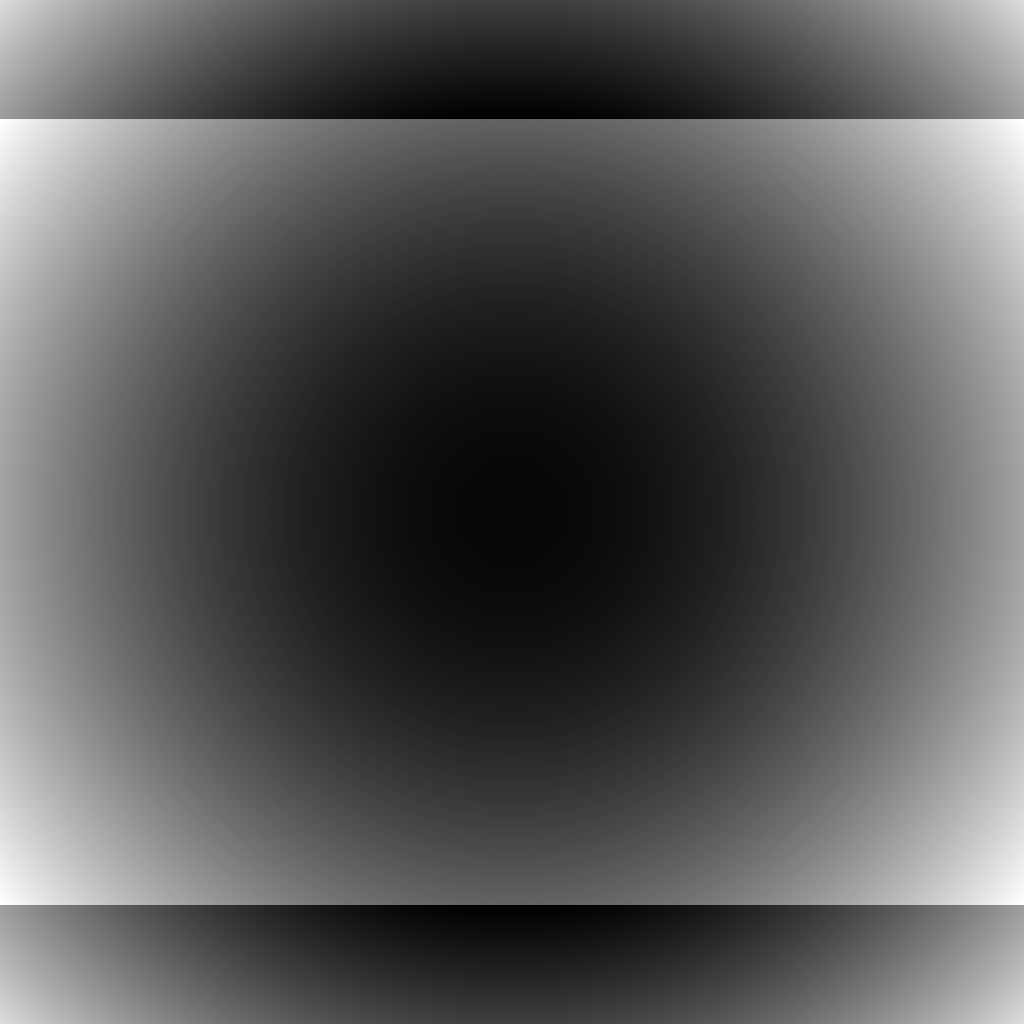
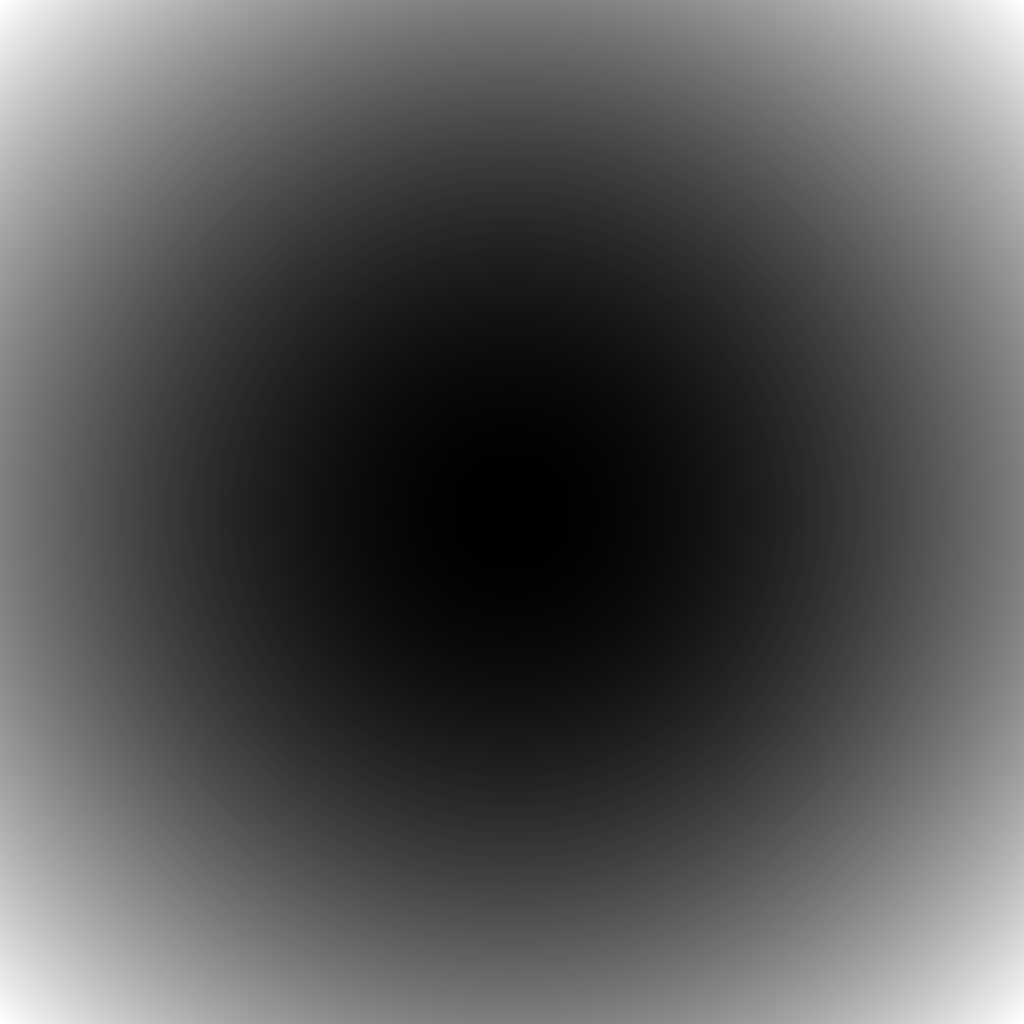
Arreglada el unwrap de la fase

diff --git a/Algorithm.py b/Algorithm.py
@@ -22,8 +22,8 @@ surf = ax.plot_surface(x, y, phase,rstride=5, cstride=5,cmap='viridis', edgecolo
 plt.savefig("phasewrap.png")
 plt.imsave("phasewrap2D.png",phase, cmap='gray') 
 
-realphase=np.unwrap(phase)
-
+#realphase=np.unwrap(phase)/2
+realphase=(np.unwrap(np.unwrap(phase,axis=0), axis=1))
 # Plot the surface
 fig = plt.figure(2)
 ax = plt.axes(projection='3d')
